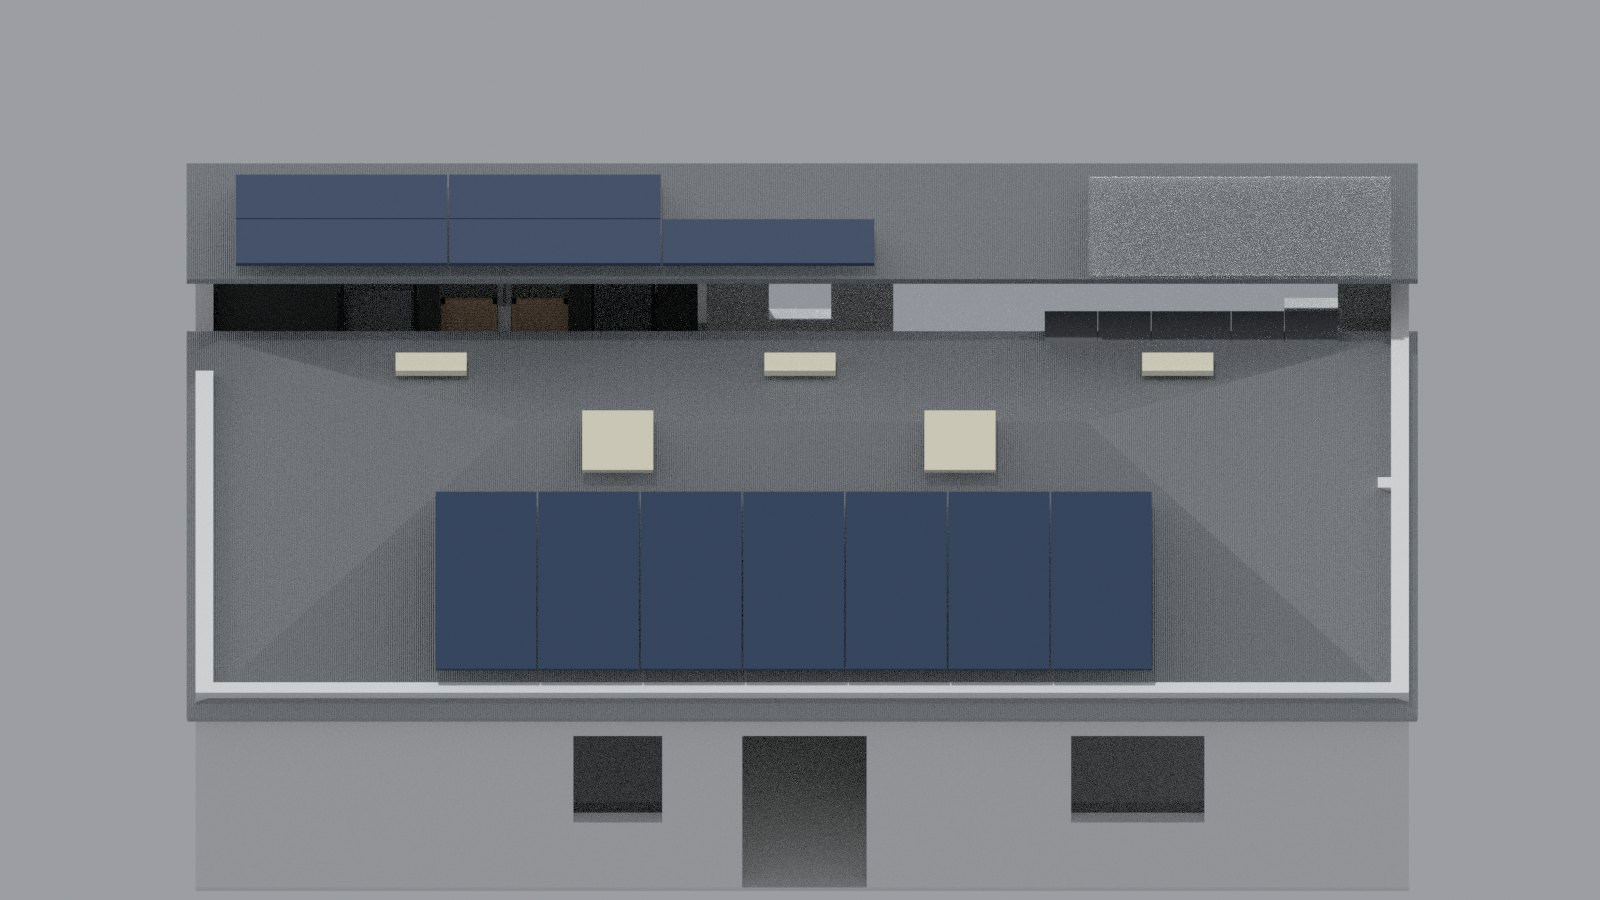
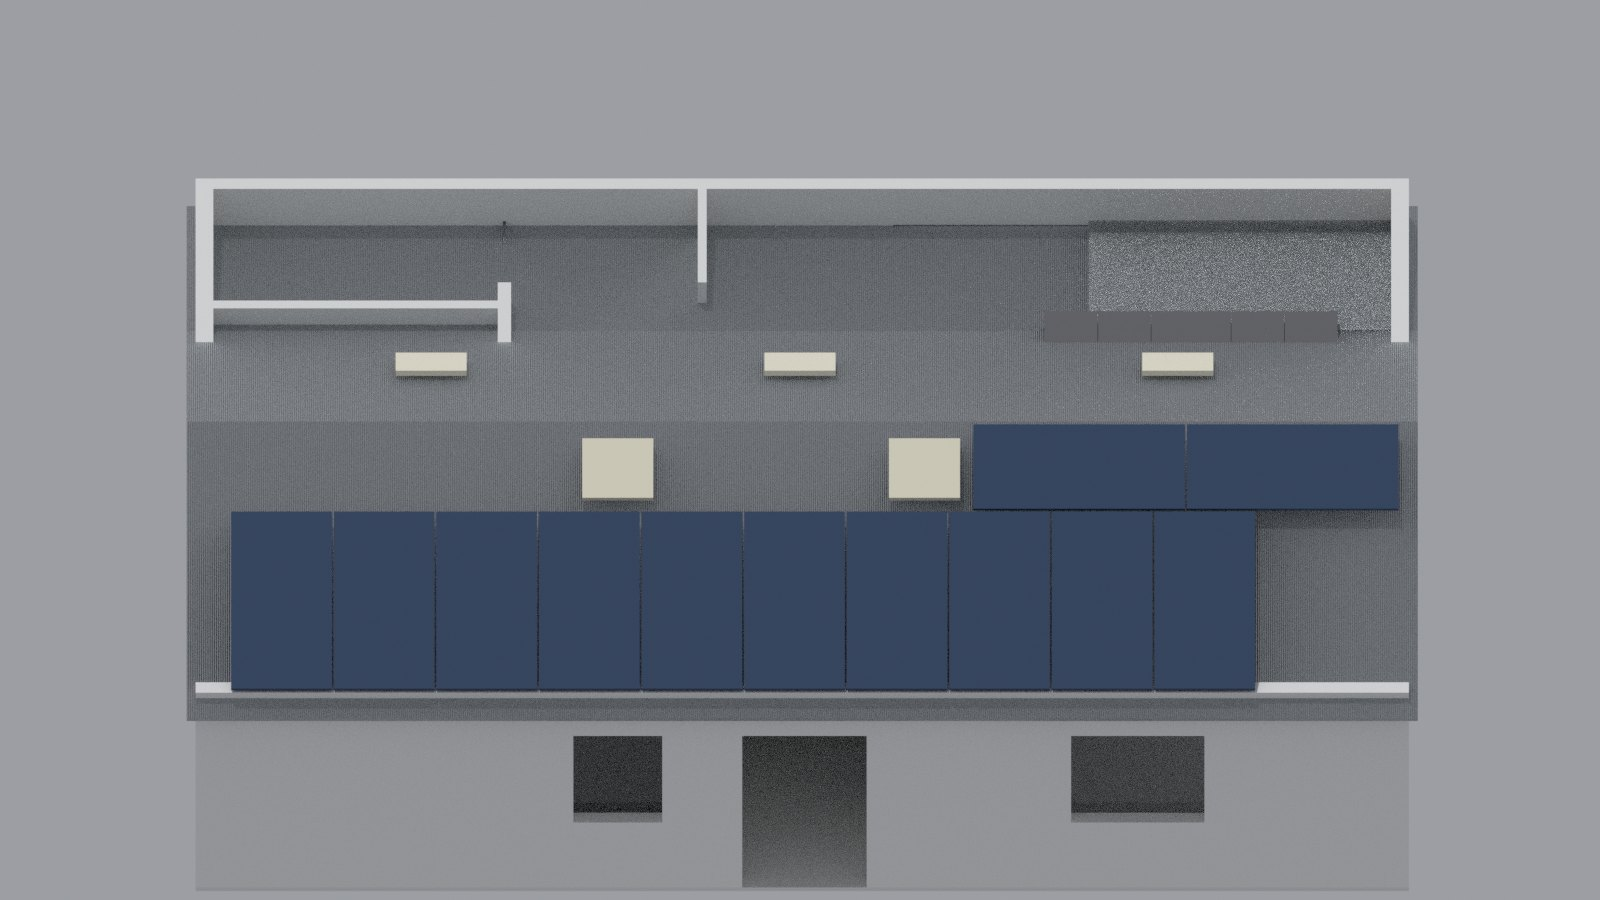
House page: main roof gabled (single E-W ridge, Rob); all 12 panels on the south slope
Claude-Session: https://claude.ai/code/session_01Da7DVLUS4eTKAPdJEftquQ

Changed region(s): [[0.0938, 0.1556, 0.9062, 0.7778]]

diff --git a/house/index.html b/house/index.html
@@ -143,10 +143,10 @@ ul.plain{padding-left:20px;margin:0 0 16px} ul.plain li{margin-bottom:6px;max-wi
 
 <section>
   <h2>The roof</h2>
-  <p>There are in effect two roofs: the main roof over the front of the house, and a separate, lower roof over the kitchen and bathroom at the back. Part of the back roof over the kitchen is opal polycarbonate, which lets daylight through.</p>
+  <p>There are in effect two roofs. The main roof is gabled, with a single ridge running the width of the house, east to west. A separate, lower roof covers the kitchen and bathroom at the back; part of it, over the kitchen, is opal polycarbonate, which lets daylight through.</p>
   <ul class="plain">
     <li>Five skylights: one each in Bedrooms A, B and C, the studio and the open-plan room.</li>
-    <li>Twelve solar panels: seven along the front of the main roof and five on the back roof, kept clear of the skylights.</li>
+    <li>Twelve solar panels, all on the sunny front slope of the main roof: ten in a row along the eave and two above them at the east end, clear of the skylights. The back roof is left clear.</li>
   </ul>
   <figure><img src="media/roof-map.png" alt="Roof map" loading="lazy"><figcaption>The roof map: skylights, solar panels and the opal section.</figcaption></figure>
   <figure><img src="media/roof-3d.jpg" alt="3D view of the roof" loading="lazy"><figcaption>The roof in the 3D model.</figcaption></figure>
